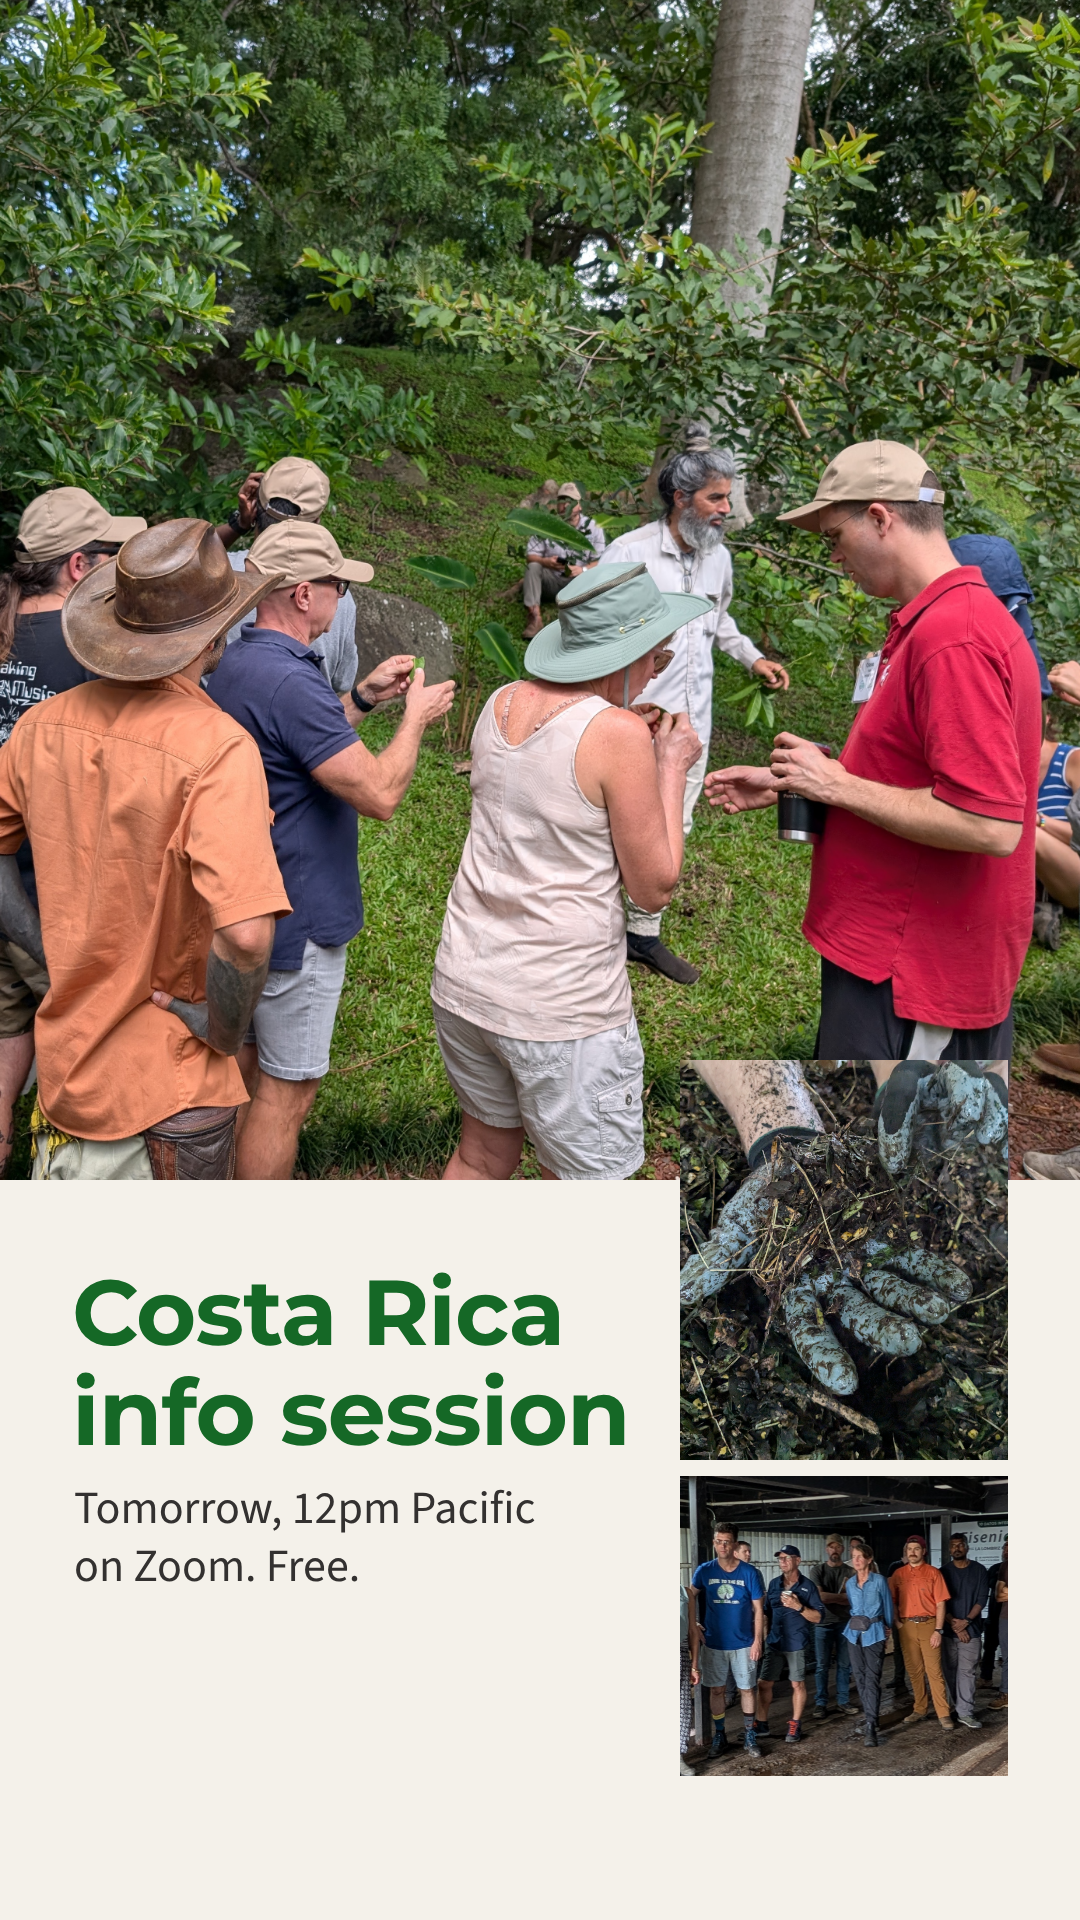
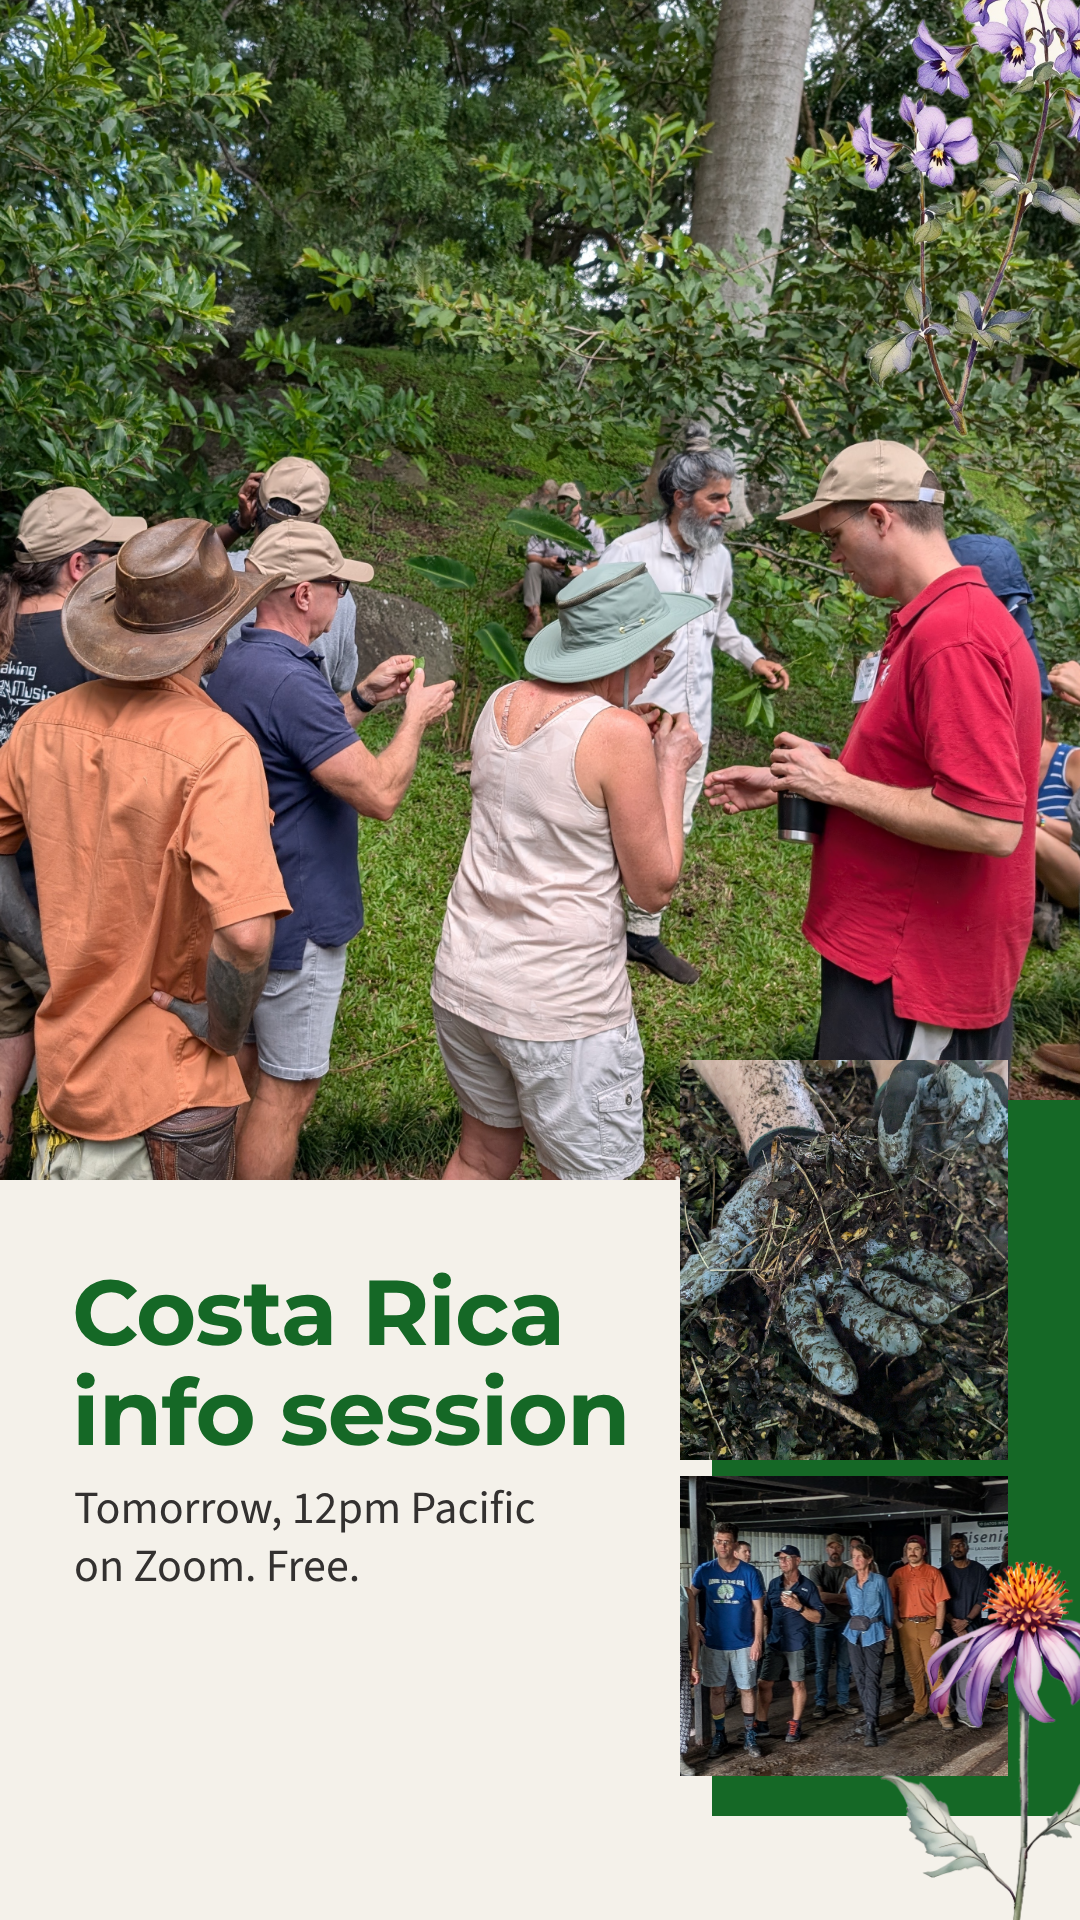
Costa Rica Story: add watercolor flowers and layered green block
Claude-Session: https://claude.ai/code/session_019Ej1kUxoRC3U1EESwA9NM8

Changed region(s): [[0.6417, 0.5625, 1.0, 1.0], [0.7944, 0.0, 1.0, 0.2188]]

diff --git a/templates/stories/05-11-2026-costa-rica-info-session/build.py b/templates/stories/05-11-2026-costa-rica-info-session/build.py
@@ -5,6 +5,7 @@ import os, subprocess
 from PIL import Image, ImageOps
 HERE = os.path.dirname(os.path.abspath(__file__)); ROOT = os.path.abspath(os.path.join(HERE, "../../.."))
 P = lambda f: os.path.join(HERE, "photos", f)
+S = lambda f: os.path.join(HERE, "stickers", f)
 def crop(src, box, out):  # box as fractions (l, t, r, b) of the original
     im = ImageOps.exif_transpose(Image.open(P(src))); w, h = im.size
     im.crop((int(box[0]*w), int(box[1]*h), int(box[2]*w), int(box[3]*h))).save(P(out), quality=94)
@@ -21,8 +22,11 @@ h1{{position:absolute;left:72px;top:1262px;font:700 92px/100px M;color:#156826;l
 p{{position:absolute;left:74px;top:1480px;font:400 46px/58px S;color:#333130}}
 </style><div class=s>
 <img src="file://{P('_hero.jpg')}" style="left:0;top:0;width:1080px;height:1180px;object-position:50% 40%">
+<div style="position:absolute;left:712px;top:1100px;width:368px;height:716px;background:#156826"></div>
 <img src="file://{P('_hands.jpg')}" style="left:680px;top:1060px;width:328px;height:400px">
 <img src="file://{P('_shed.jpg')}" style="left:680px;top:1476px;width:328px;height:300px">
+<img src="file://{S('violets.png')}" style="left:850px;top:-70px;width:270px;object-fit:contain">
+<img src="file://{S('coneflower.png')}" style="left:880px;top:1560px;width:260px;object-fit:contain">
 <h1>Costa Rica<br>info session</h1><p>Tomorrow, 12pm Pacific<br>on Zoom. Free.</p></div>"""
 open(os.path.join(HERE, "previews", "_s.html"), "w").write(html)
 js = """const {chromium}=require('playwright');(async()=>{const b=await chromium.launch();const p=await b.newPage({viewport:{width:1080,height:1920}});
